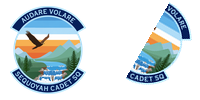
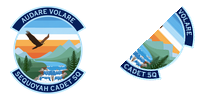
Refine Sequoyah OCP patch image (#40)

Changed region(s): [[0.6, 0.03, 0.99, 0.87]]

diff --git a/scripts/build_sequoyah_patch.py b/scripts/build_sequoyah_patch.py
@@ -68,7 +68,9 @@ def main() -> None:
     # The sleeve view removes the patch's left half, then rotates the remaining
     # right half to follow the OCP sleeve angle.
     right_half = full.crop((full.width // 2, 0, full.width, full.height))
-    adjusted = right_half.rotate(-30, resample=Image.Resampling.BICUBIC, expand=True)
+    # Incorporate the additional -16 degree sleeve refinement from the latest
+    # coordinate export into this half only; the complete patch stays upright.
+    adjusted = right_half.rotate(-46, resample=Image.Resampling.BICUBIC, expand=True)
 
     sprite = Image.new("RGBA", (200, 100), (0, 0, 0, 0))
     sprite.alpha_composite(full_layer, (2, 2))
